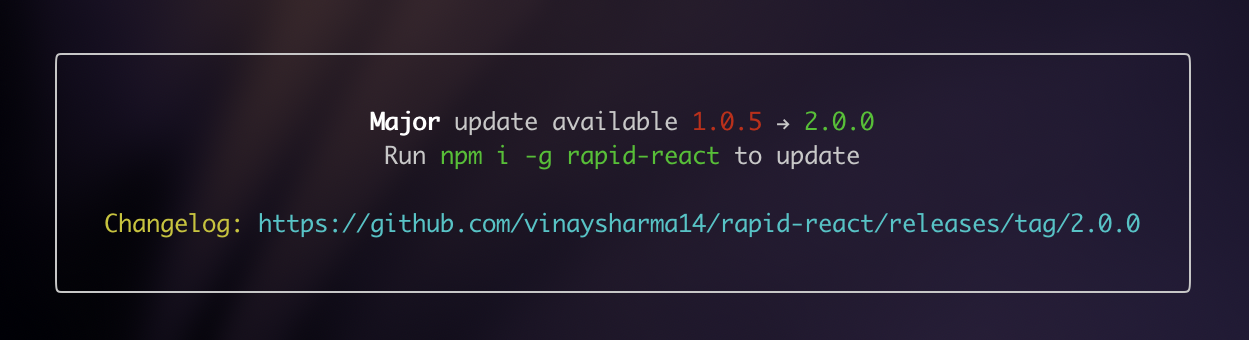
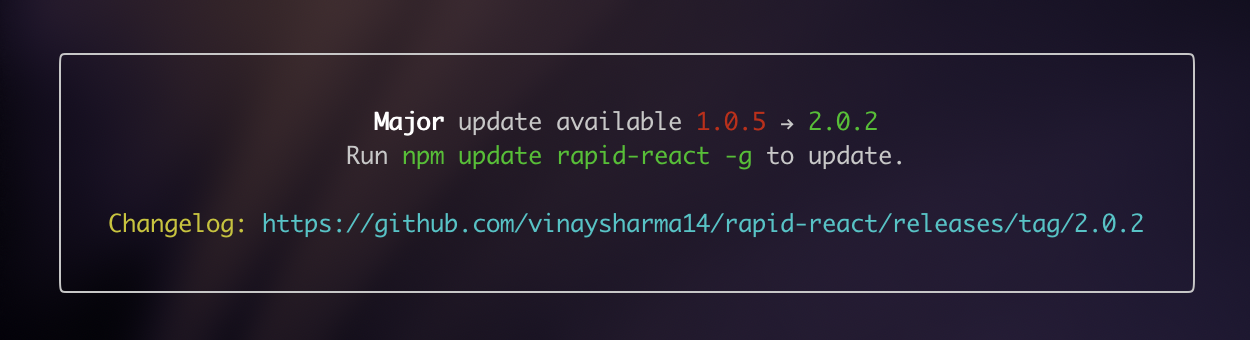
fix: version update command message

Changed region(s): [[0.0312, 0.1471, 0.968, 0.8529], [0.281, 0.3235, 0.7182, 0.4118], [0.281, 0.4118, 0.7182, 0.5]]

diff --git a/src/scripts/update.ts b/src/scripts/update.ts
@@ -21,7 +21,7 @@ export const checkUpdate = async() => {
     }
 
     const msg = {
-      runUpdate: `Run ${chalk.green(`npm i -g ${name}`)} to update`,
+      runUpdate: `Run ${chalk.green(`npm update ${name} -g`)} to update.`,
       updateAvailable: `${chalk.bold(updateType)} update available ${chalk.red(version)} → ${chalk.green(latestVersion)}`,
       changelog: `${chalk.yellow('Changelog:')} ${chalk.cyan(`https://github.com/vinaysharma14/rapid-react/releases/tag/${latestVersion}`)}`,
     };
